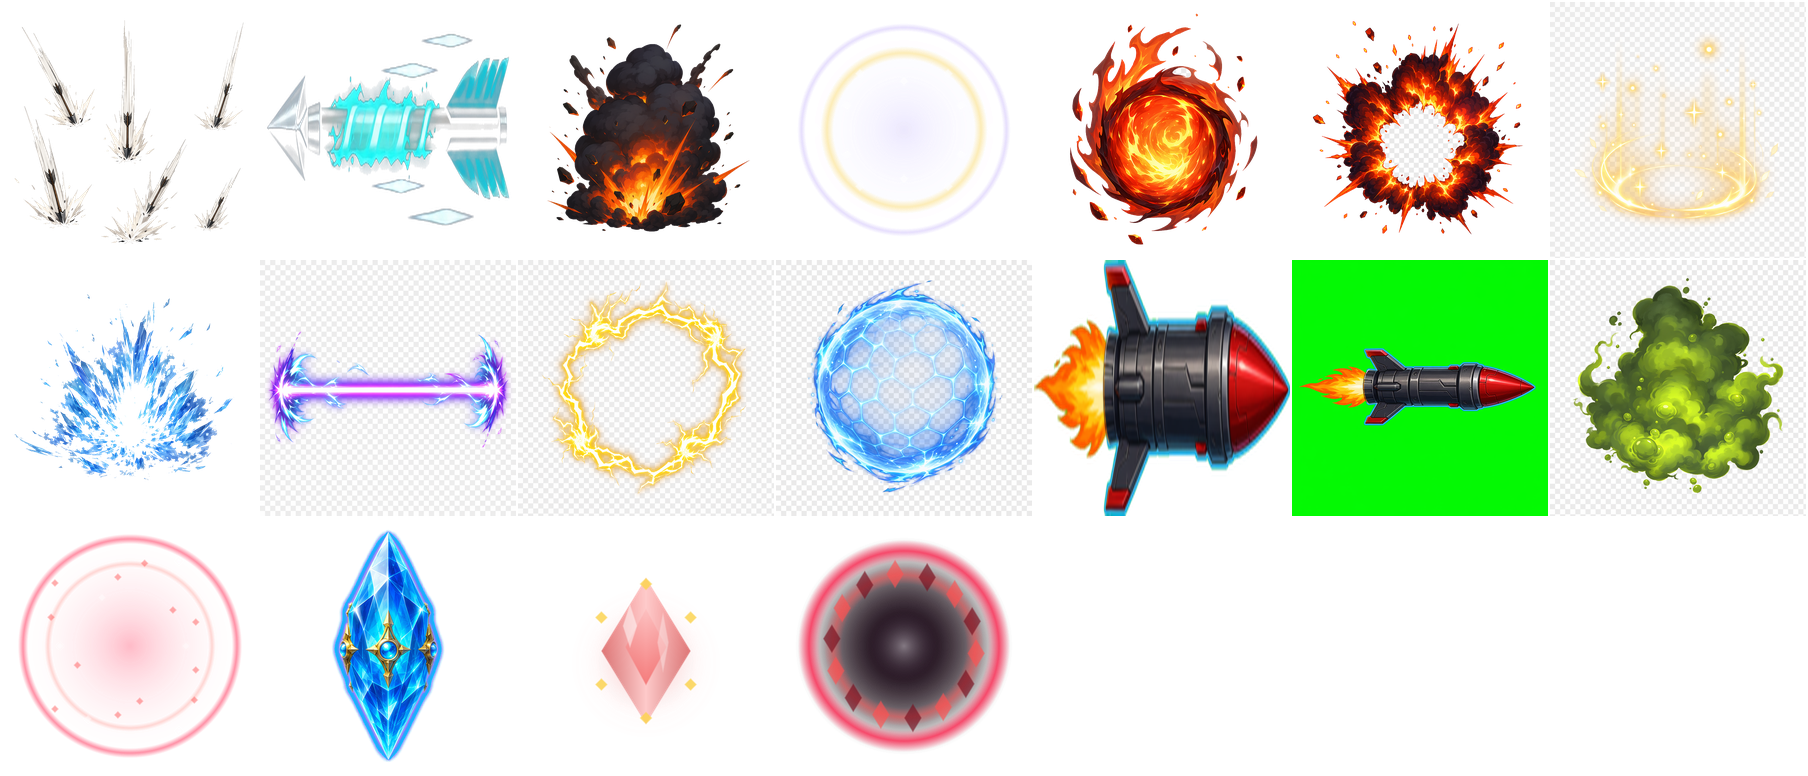
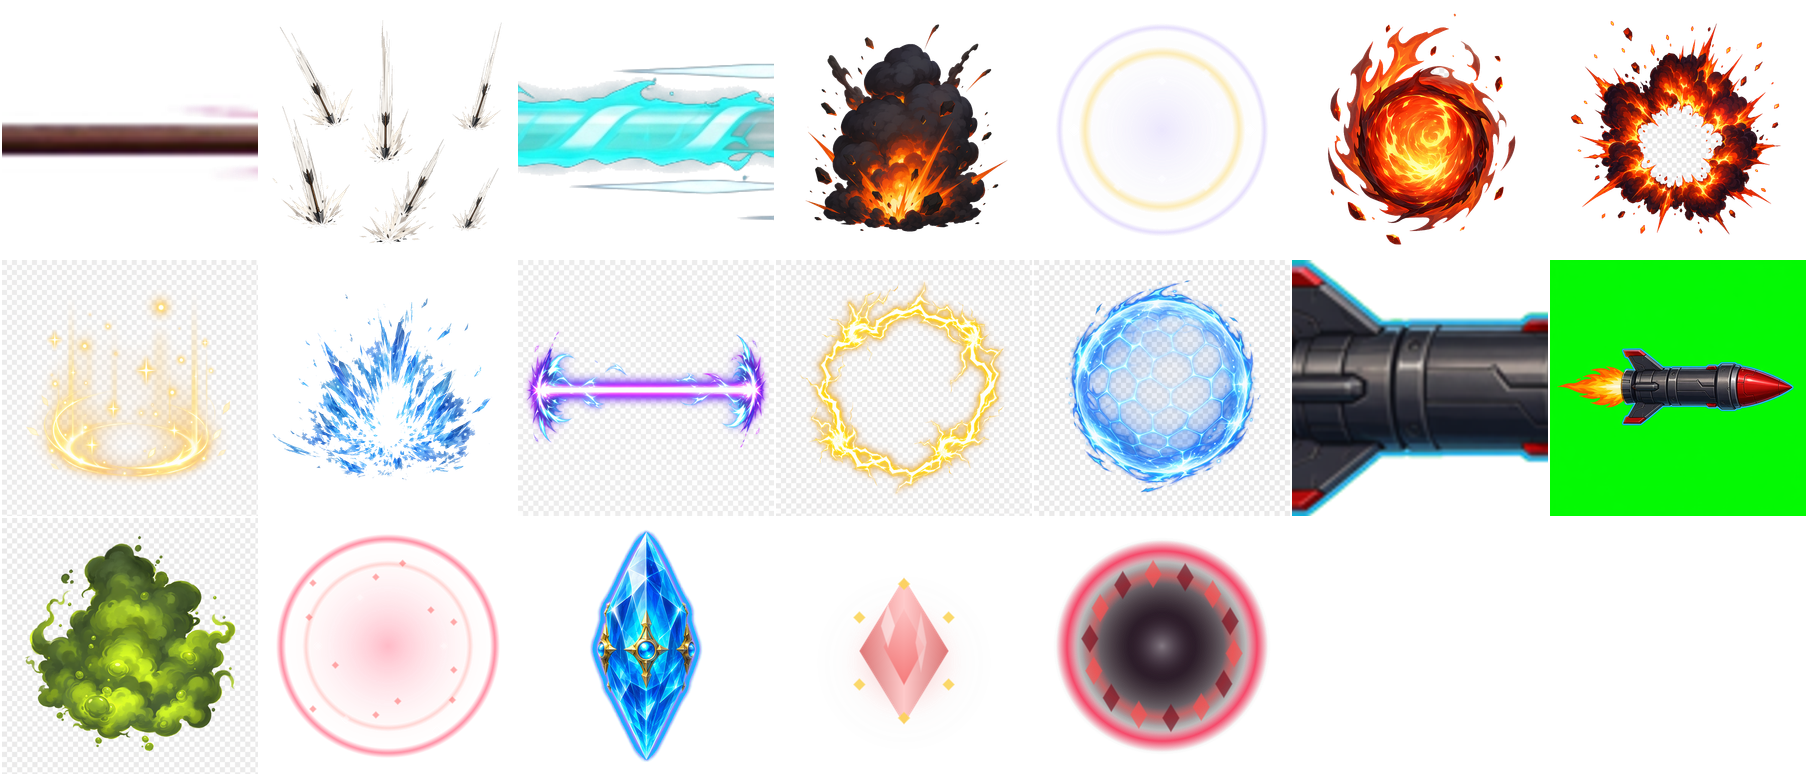
fix: 剑雨箭矢改用AI美术图

diff --git a/src/systems/SpellProjectileSystem.test.ts b/src/systems/SpellProjectileSystem.test.ts
@@ -14,6 +14,7 @@ import {
 import type { Renderer } from '../render/Renderer.js';
 import type { RenderCommand } from '../types/index.js';
 import { clearDamageObservers, registerDamageObserver } from '../utils/damageUtils.js';
+import { clearArtAtlasRegistryForTests, registerArtAtlasManifest } from '../utils/imageCache.js';
 import { Sound } from '../utils/Sound.js';
 import { RenderSystem } from './RenderSystem.js';
 import { SpellProjectileSystem } from './SpellProjectileSystem.js';
@@ -90,6 +91,8 @@ function makeProjectile(world: TowerWorld, spellType: number, duration: number):
 describe('SpellProjectileSystem', () => {
   beforeEach(() => {
     clearDamageObservers();
+    clearArtAtlasRegistryForTests();
+    vi.unstubAllGlobals();
     vi.restoreAllMocks();
   });
 
@@ -174,7 +177,7 @@ describe('SpellProjectileSystem', () => {
     expect(playSpy).toHaveBeenLastCalledWith('skill_arrow_rain');
   });
 
-  it('renders arrow rain and blizzard with particle commands only', () => {
+  it('renders blizzard with particle commands only while arrow rain keeps art fallback-safe arrows', () => {
     const { renderer, commands } = makeRenderer();
     const world = new TowerWorld();
     const system = new SpellProjectileSystem(renderer);
@@ -187,6 +190,30 @@ describe('SpellProjectileSystem', () => {
     expect(commands.some((cmd) => cmd.image)).toBe(false);
     expect(commands.some((cmd) => cmd.shape === 'arrow')).toBe(true);
     expect(commands.some((cmd) => cmd.shape === 'diamond')).toBe(true);
+  });
+
+  it('renders arrow rain arrows with AI art when the sprite is loaded', () => {
+    const { renderer, commands } = makeRenderer();
+    const world = new TowerWorld();
+    const system = new SpellProjectileSystem(renderer);
+    const image = { complete: true, naturalWidth: 256, naturalHeight: 42 } as unknown as HTMLImageElement;
+    vi.stubGlobal('Image', vi.fn(() => image));
+    registerArtAtlasManifest({
+      id: 'fx_objectives',
+      image: '/art/atlases/global/fx_objectives.png',
+      frames: {
+        '/art/fx/fx_arrow_rain_arrow.png': { x: 0, y: 0, w: 256, h: 42 },
+      },
+    });
+    makeProjectile(world, 1, 0.5);
+
+    system.update(world, 0.4);
+
+    const artArrows = commands.filter((cmd) => cmd.shape === 'arrow' && cmd.image);
+    expect(artArrows.length).toBeGreaterThan(0);
+    expect(artArrows.every((cmd) => cmd.imageSource?.w === 256 && cmd.imageSource?.h === 42)).toBe(true);
+    expect(artArrows.every((cmd) => cmd.h !== undefined && cmd.h < cmd.size)).toBe(true);
+    expect(artArrows.every((cmd) => (cmd.targetX ?? cmd.x) > cmd.x && (cmd.targetY ?? cmd.y) > cmd.y)).toBe(true);
   });
 
   it('renders arrow rain as slim red diagonal arrows with trails in both waves', () => {

diff --git a/src/systems/SpellProjectileSystem.ts b/src/systems/SpellProjectileSystem.ts
@@ -18,7 +18,9 @@ import {
   Tower,
 } from '../core/components.js';
 import { Renderer } from '../render/Renderer.js';
+import { arrowRainArrowArtPath } from '../utils/artAssets.js';
 import { applyDamageToTarget } from '../utils/damageUtils.js';
+import { getLoadedImageFrame } from '../utils/imageCache.js';
 import { Sound } from '../utils/Sound.js';
 import { RenderSystem } from './RenderSystem.js';
 
@@ -34,6 +36,8 @@ const ARROW_RAIN_WAVE_FALL_TIME = 0.24;
 const ARROW_RAIN_ARROW_COLOR = '#d32f2f';
 const ARROW_RAIN_ARROW_TAIL = 'rgba(211, 47, 47, 0)';
 const ARROW_RAIN_TRAIL_COLOR = '#ffcdd2';
+const ARROW_RAIN_ARROW_ART_PATH = arrowRainArrowArtPath();
+const ARROW_RAIN_ARROW_ART_ASPECT = 42 / 256;
 
 const projectileQuery = defineQuery([SpellProjectile, Position]);
 const effectQuery = defineQuery([SpellEffect, Position]);
@@ -801,6 +805,26 @@ export class SpellProjectileSystem implements System {
       rotation: angle + Math.PI / 2,
       z: z - 1,
     });
+
+    const arrowArt = getLoadedImageFrame(ARROW_RAIN_ARROW_ART_PATH);
+    if (arrowArt) {
+      this.renderer.push({
+        shape: 'arrow',
+        x,
+        y,
+        targetX,
+        targetY,
+        size: size * 2.25,
+        h: size * 2.25 * ARROW_RAIN_ARROW_ART_ASPECT,
+        color: ARROW_RAIN_ARROW_COLOR,
+        image: arrowArt.image,
+        imageSource: arrowArt.source ?? undefined,
+        alpha,
+        z,
+      });
+      return;
+    }
+
     this.renderer.push({
       shape: 'arrow',
       x,

diff --git a/src/utils/artAssets.ts b/src/utils/artAssets.ts
@@ -43,6 +43,10 @@ export function objectiveFxArtPath(assetId: 'crystal_aura' | 'spawn_portal'): st
   return `/art/fx/fx_${assetId}_loop_0.png`;
 }
 
+export function arrowRainArrowArtPath(): string {
+  return '/art/fx/fx_arrow_rain_arrow.png';
+}
+
 export function backgroundArtPath(theme: string | TileArtTheme | undefined): string {
   const normalized = (theme ?? 'meadow').toLowerCase();
   const artTheme = normalized === 'plains' ? 'meadow' : normalized;

diff --git a/devlog/2026-06-18.md b/devlog/2026-06-18.md
@@ -139,3 +139,13 @@
 - 生成：使用 `animal-mediakit` 调用 `azure/gpt-image-2` 生成绿幕箭矢源图，因当前团队无 `openai/gpt-image-1.5` 权限，改用本地 chroma-key 抠图生成透明 PNG。
 - 修复：`RenderSystem` 对 `sourceTowerType === 0` 的普通箭塔 `arrow` projectile 注入图片主体，复用 `imageCache` standalone 加载路径。
 - 回归：新增 `RenderSystem` 用例，覆盖箭塔箭矢使用图片、非箭塔 arrow projectile 不误用普通箭矢图片。
+
+## 剑雨箭矢改用 AI 美术图
+
+- 需求：剑雨每支下落箭矢不再只用程序绘制，改为 AI 生成美术图片。
+- 设计：更新 `design/03-units.md`、`design/05-presentation.md`、`design/09-ai-art-redesign.md` 与 `design/10-art-atlas-pipeline.md`，明确剑雨单箭是技能特效贴图例外，拖尾、尘圈和区域冲击环仍由程序绘制。
+- 生成：使用 `animal-mediakit` 调用 `azure/gpt-image-2` 生成品红底单箭源图，并用 `sharp` 本地 chroma-key 去底、裁切为 `public/art/fx/fx_arrow_rain_arrow.png` 透明 PNG。
+- 修复：`SpellProjectileSystem` 为剑雨箭矢优先注入 AI 贴图，按落点方向旋转；贴图未加载时保留原程序 arrow 回退，避免首帧空白。
+- 图集：使用 bundled Python 的 Pillow 环境执行 `npm run build:atlases`，重建 `fx_objectives` 图集并纳入剑雨单箭资源。
+- 回归：扩展 `SpellProjectileSystem` 用例，覆盖贴图加载后使用 AI 图片、贴图未加载时仍可回退程序箭形。
+- 验证：`npm test -- --run src/systems/SpellProjectileSystem.test.ts` 通过。

diff --git a/design/03-units.md b/design/03-units.md
@@ -740,7 +740,7 @@ Boss 技能补充设计：
 
 #### 7.2.1 技能卡粒子特效规范
 
-技能卡运行时特效全部使用程序化粒子和基础几何绘制，不再加载 `public/art/fx/` 下的法术投射物、命中帧或序列帧图片。卡牌插画仍可使用美术图，但战斗场景中的投射物、命中爆发、持续区域表现必须由粒子、光环、冲击波、拖尾和碎屑组成。
+技能卡运行时特效默认使用程序化粒子和基础几何绘制，不再加载 `public/art/fx/` 下的法术投射物、命中帧或序列帧图片。卡牌插画仍可使用美术图，但战斗场景中的投射物、命中爆发、持续区域表现原则上由粒子、光环、冲击波、拖尾和碎屑组成。剑雨是唯一例外：每支下落箭矢主体使用 AI 生成透明贴图 `public/art/fx/fx_arrow_rain_arrow.png`，贴图未加载时才回退到程序绘制箭形，拖尾、尘圈和区域冲击环仍由程序绘制。
 
 伤害飘字时序必须与真实伤害结算帧对齐：投射物或预警阶段只播放视觉引导，不调用伤害结算；命中特效第 1 帧播放核心爆发、箭矢扎地或暴风雪覆盖时，同帧调用伤害结算，伤害观察者生成的飘字从受击单位上方出现。暴风雪属于持续伤害与持续控制法术，按混乱攻击规则伤害敌人和我方士兵但不伤害塔，冷雾覆盖期间每秒结算一次伤害，并在完整持续时间内停止所有单位移动。
 

diff --git a/design/10-art-atlas-pipeline.md b/design/10-art-atlas-pipeline.md
@@ -25,7 +25,7 @@
 |--------|----------|----------|------------|----------|------|
 | P0 | `public/art/units/` | 376 | 是 | 敌方单位按关卡分包；玩家非塔单位进入全局图集；玩家塔每塔一个图集 | 数量最大，战斗中重复使用；按场景区分打包可避免不同关卡敌人混入同一图集 |
 | P0 | `public/art/tiles/` + `public/art/decor/` | 15+ | 是 | 按主题拆分，地格与同主题装饰合包 | 地图入场和战斗场景高频使用；装饰物随主题预热，避免额外请求 |
-| P1 | `public/art/fx/` | 12 | 是 | 全局 FX 图集 | 小图、透明背景、复用频繁 |
+| P1 | `public/art/fx/` | 13 | 是 | 全局 FX 图集 | 小图、透明背景、复用频繁 |
 | P1 | `public/art/ui/` | 8 | 是 | 全局 UI 图集 | 小型 UI 件和 9-slice 源图可共用图集 |
 | P1 | `public/art/buffs/` | 12 | 是 | 全局 icon 图集 | 图标尺寸统一，局外 UI 复用 |
 | P1 | `public/art/card-icon/` | 12 | 是 | 全局 icon 图集 | 小图标适合与 Buff 图标同类合并 |

diff --git a/design/05-presentation.md b/design/05-presentation.md
@@ -557,6 +557,7 @@ Abyss（深渊层）    — 最低，预留
 | ballista bolt | 弩塔专用 arrow 外观：优先使用 AI 生成贴图 `public/art/fx/fx_ballista_bolt.png` 作为 60px 弩矢主体，不叠加程序化发光或破空线；贴图未加载时才回退为纯程序化几何弩矢；贴图素材默认箭头朝左，运行时旋转时额外翻转 180°，方向锁定为发射方向，不随命中目标反转 |
 | 普通 projectile | 按 `Projectile` 组件位置绘制基础几何体，颜色/尺寸来自塔类型配置 |
 | missile | 导弹塔专用 AI 贴图主体 `public/art/fx/fx_missile_projectile.png`，按 `Visual.idlePhase` 旋转并叠加橙红脉冲光晕、蓝色尾焰；贴图未加载时回退为原程序化黑色机身+红色菱形弹头 |
+| arrow rain arrow | 剑雨每支下落箭矢主体使用 AI 生成透明贴图 `public/art/fx/fx_arrow_rain_arrow.png`，按落点方向旋转；贴图未加载时回退为程序 arrow 几何形状，浅红拖尾、落地尘圈和区域冲击环保持程序绘制 |
 | beam/laser | `LaserBeamSystem` 在 post-render 中补绘持续光束 |
 | lightning | `LightningBoltSystem` 在 post-render 中补绘闪电线 |
 | spell projectile | `SpellProjectileSystem` 管理法术弹道表现 |

diff --git a/design/09-ai-art-redesign.md b/design/09-ai-art-redesign.md
@@ -303,6 +303,7 @@ dark fantasy casual tower defense battlefield decoration sprite, {decor_subject}
 |------|------|------------|
 | 火焰爆发 | 火球术、火塔、灼烧 | `orange red fire explosion ring, ember particles, transparent background` |
 | 箭雨落点 | 剑雨、箭塔强化 | `multiple arrow impact streaks, sharp white motion trails, transparent background` |
+| 剑雨单箭 | 剑雨每支下落箭矢 | `single slim red fantasy arrow, metallic arrowhead, thin shaft, side-on sprite, transparent background` |
 | 冰霜爆发 | 冰塔、暴风雪、冻结 | `blue white frost burst, ice shard circle, snow mist, transparent background` |
 | 黑铁爆炸 | 炮塔、炸弹、导弹 | `dark smoke and orange blast, chunky stylized explosion, transparent background` |
 | 毒雾 | 毒塔、中毒、腐蚀 | `sickly green poison cloud, bubbling droplets, soft edge transparent background` |